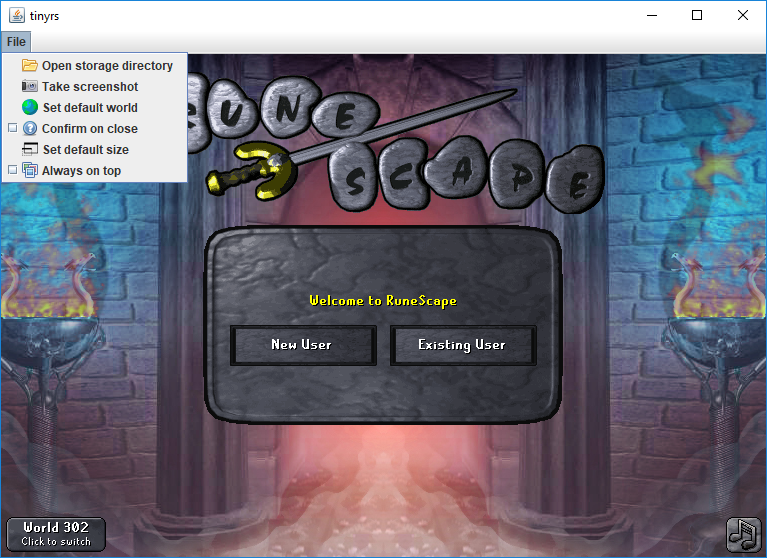
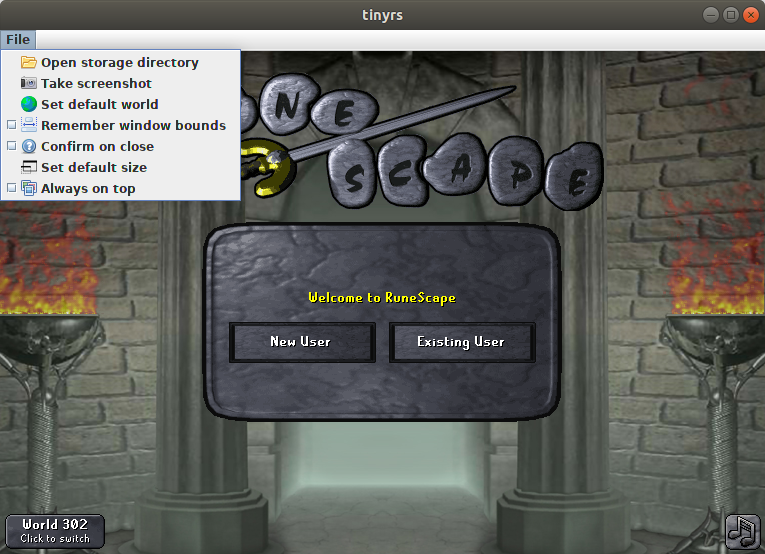
Updated README and screenshot.

diff --git a/README.md b/README.md
@@ -2,43 +2,47 @@
 A minimalistic game client for Old School RuneScape.
 
 ## Features
-- Super portable. One ~50 kB file is all you need! Ideal for people who use
-  multiple computers.
-- Cross-platform support. Should run on any platform that supports Java with
-  Swing.
-- Gamepack caching and automatic updating. This ensures quick loading times,
-  as the game client is only downloaded when a new version comes out.
+- Super portable. One ~60 kB file is all you need!
+- Cross-platform support. Should run on any platform that supports Java with Swing.
+  This is particularly useful on Linux, which (currently) does not have an official
+  game client.
+- Gamepack caching. This ensures quick start-up times, as the game client is only
+  downloaded when a new version is released.
 - Built-in screenshot ability.
+- Plugin support (see below).
 
 ![Screenshot](./screenshot.png)
 
 ## Usage
-- The easiest way to use this application is to download and run the executable
-  **tinyrs.jar** in this repository. Alternatively, the more wary users can
-  compile the project for themselves and run `tinyrs.Application`.
-- Through the use of the command-line, three additional program arguments can be
-  specified:
+The easiest way to use this application is to download and run **tinyrs.jar** in this
+repository. Alternatively, the more wary users can compile the project for themselves
+and run `tinyrs.Application`.
+
+Through the use of the command-line, three additional program arguments can be specified:
+
   - `defaultWorld`, which specifies the initial game world to connect to, and
   - `storageDirectory`, which overrides the default storage directory (which
     lies in the home directory), and
   - `pluginArchive`, which specifies the path to a plugin JAR file; see **Plugins**.
     It can be specified multiple times.
-  
+
 #### Plugins
-Plugins are (small) programs that are loaded along with the client that provide
-a new feature or enhance an existing one.
+Plugins are (small) programs that are loaded along with **tinyrs** that provide a new
+feature or enhance an existing one. Each plugin needs to be packed in its own archive
+(`.jar` file). The archive needs to contain two things to be considered a valid plugin:
 
-Each plugin needs to be packed in its own archive (`.jar` file). The archive needs
-to contain two things to be considered a valid plugin:
- 1. A concrete class that implements `tinyrs.plugin.Plugin` with a nullary constructor.
+ 1. A `public`, concrete class that extends `tinyrs.plugin.Plugin` and has a nullary
+    constructor.
  2. A manifest file with the attribute `Plugin-Class` which specifies the binary name
-    of the class that implements `Plugin`.
-    
+    of the class that extends `Plugin`.
 
-Any plugins that have been specified by command-line are loaded when the client first
-starts up. The plugins are *started* when the game client is loaded. If any plugins
-have been (successfully) started, a "Plugins" menu will appear in the menu bar which
-will contain items corresponding to each plugin.
+Any plugins that have been specified by command-line are loaded when **tinyrs** first
+starts up. When the game client is loaded, every plugin is initialized then started,
+one by one. If a plugin fails to initialize or start, it is simply ignored. If any
+plugins have been successfully started, a "Plugins" menu will appear in the menu bar
+which will contain an item corresponding to each plugin. This menu item can be used to
+interact with the plugin while it is running. After a plugin stops running, the menu
+item is disabled, which causes it to appear greyed out in the "Plugins" menu.
 
 ### Dependencies
 - Java 6
